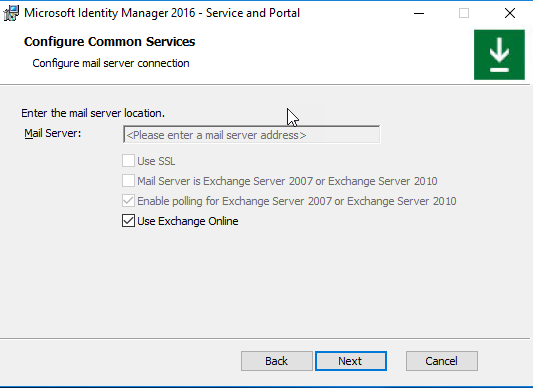
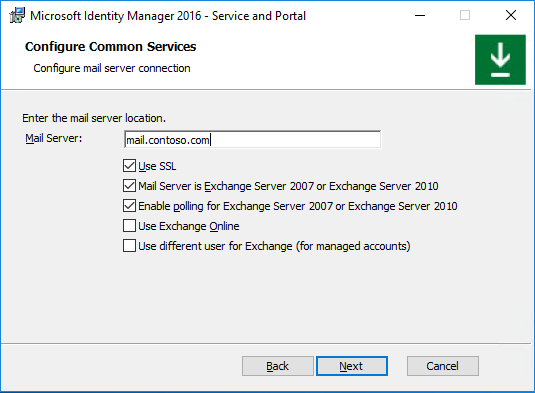
fixing ExO online and GMSA related doc bugs

diff --git a/MIMDocs/install-mim-service-portal.md b/MIMDocs/install-mim-service-portal.md
@@ -57,6 +57,11 @@ If you didn't set up the MIM installation package in the last step, go back and 
     ![Configure the MIM database connection image](media/install-mim-service-portal/MIM_Install10.png)
 
 7. On the **Configure mail server connection**, enter the name of your Exchange server as **Mail Server** or you can use **O365 Mailbox**. If you do not have a mail server configured, use **localhost** as the mail server name and uncheck the top two checkboxes. Click **Next**.
+    >[!NOTE]
+    >MIM 2016 SP2 and later: if you are using Group Managed Service Accounts, you must check **Use different user for Exchange** checkbox even if you do not plan to use Exchange.
+    
+    >[!NOTE]
+    >When **Use Exchange Online** option is selected in order to enable processing of approval responses generated by MIM Outlook Add-On you need to set registry key HKLM\SYSTEM\CurrentControlSet\Services\FIMService\PollExchangeEnabled to 1 after installation.
 
     ![Configure mail server connection image](media/install-mim-service-portal/MIM_Install11.png)
 

diff --git a/MIMDocs/microsoft-identity-manager-2016-gmsa.md b/MIMDocs/microsoft-identity-manager-2016-gmsa.md
@@ -200,7 +200,9 @@ configuration has been done.*
 5.  On “Configure main server connection page” check “Use different account for
     Exchange (for managed accounts)” checkbox. Here you will have an option to
     use the old account that has a mailbox or use cloud mailbox.
-
+    >[!NOTE]
+    >When **Use Exchange Online** option is selected in order to enable processing of approval responses generated by MIM Outlook Add-On you need to set registry key HKLM\SYSTEM\CurrentControlSet\Services\FIMService\PollExchangeEnabled to 1 after installation.
+    
 ![](media/0cd8ce521ed7945c43bef6100f8eb222.png)
 
 6.  On “Configure MIM Service account” page type service account with \$ symbol
